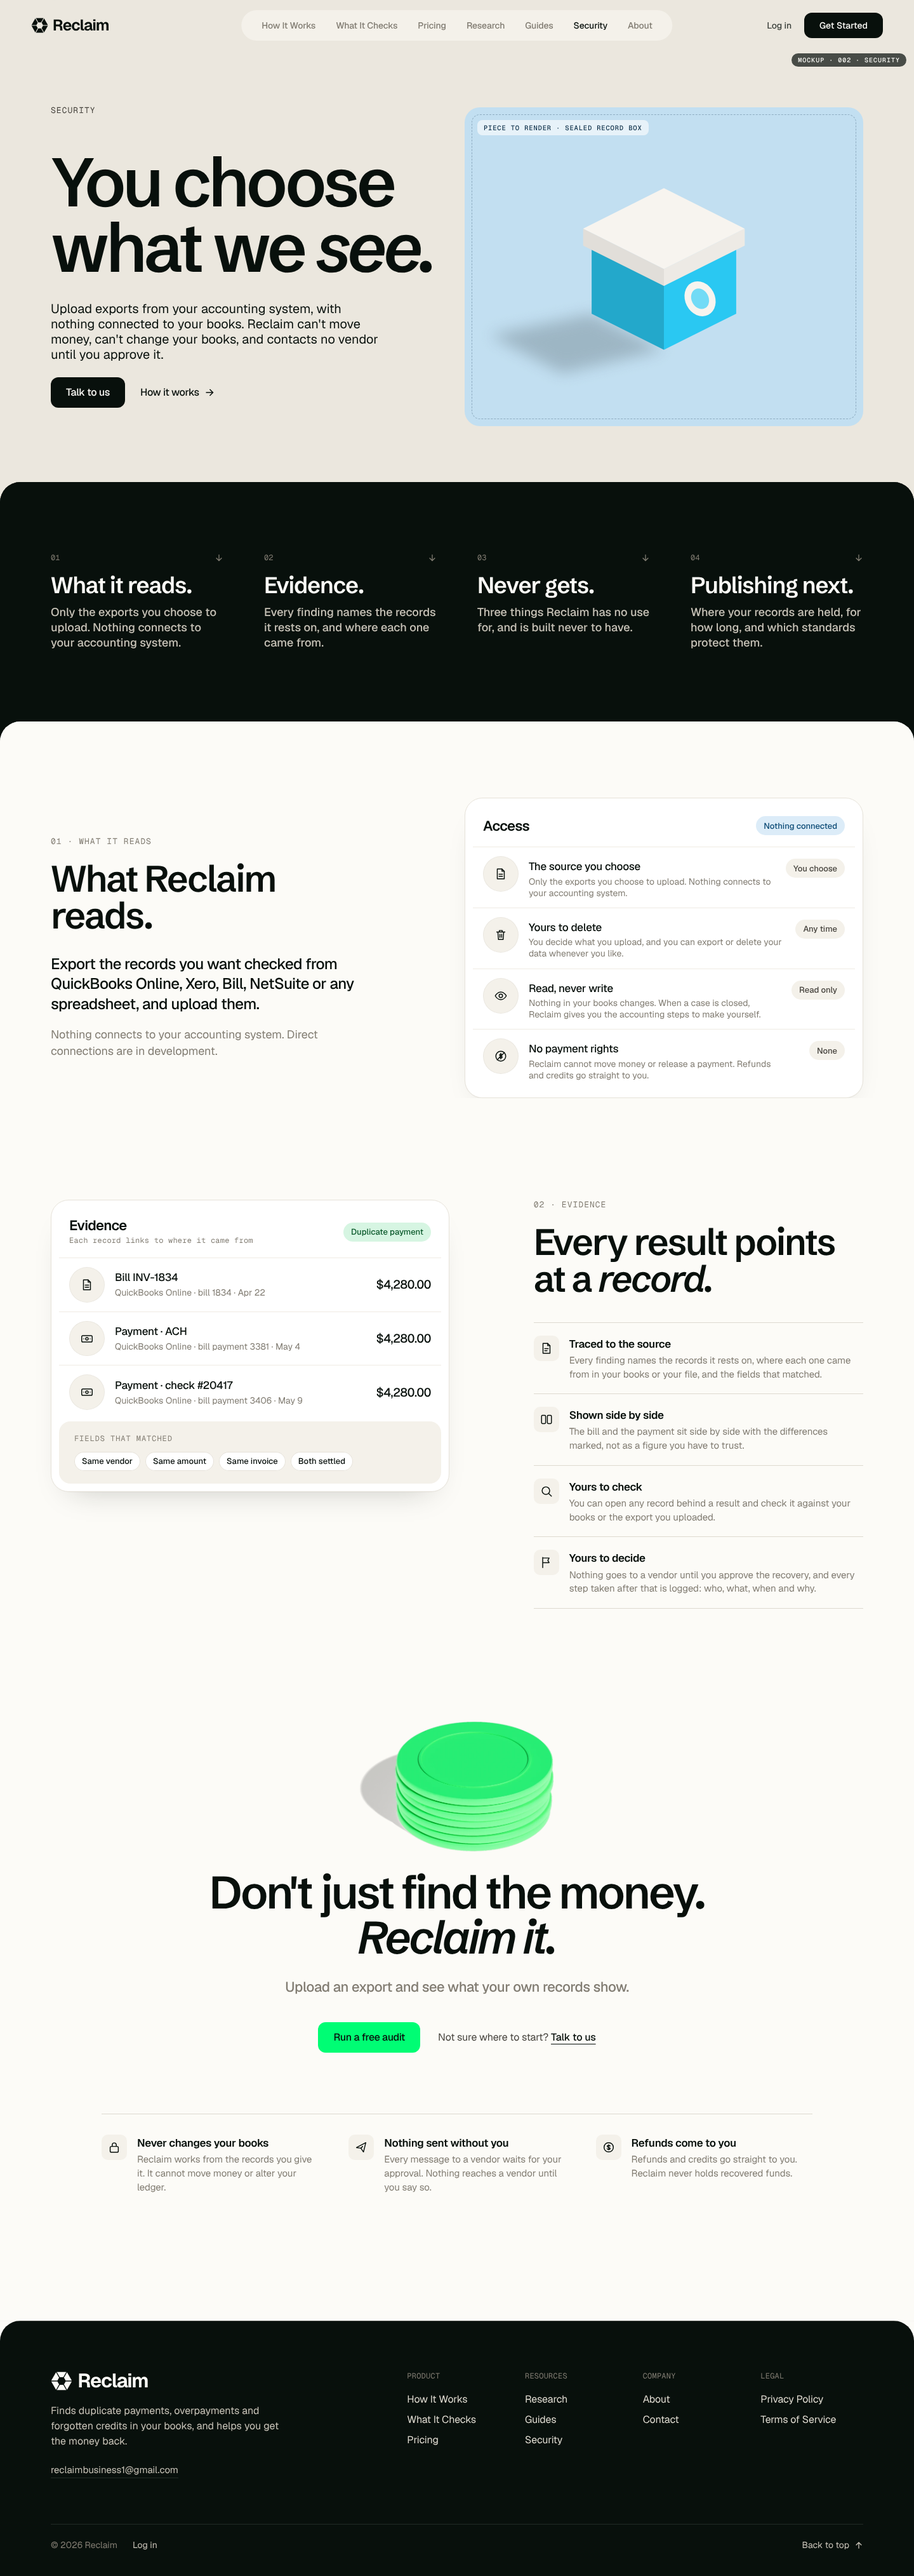
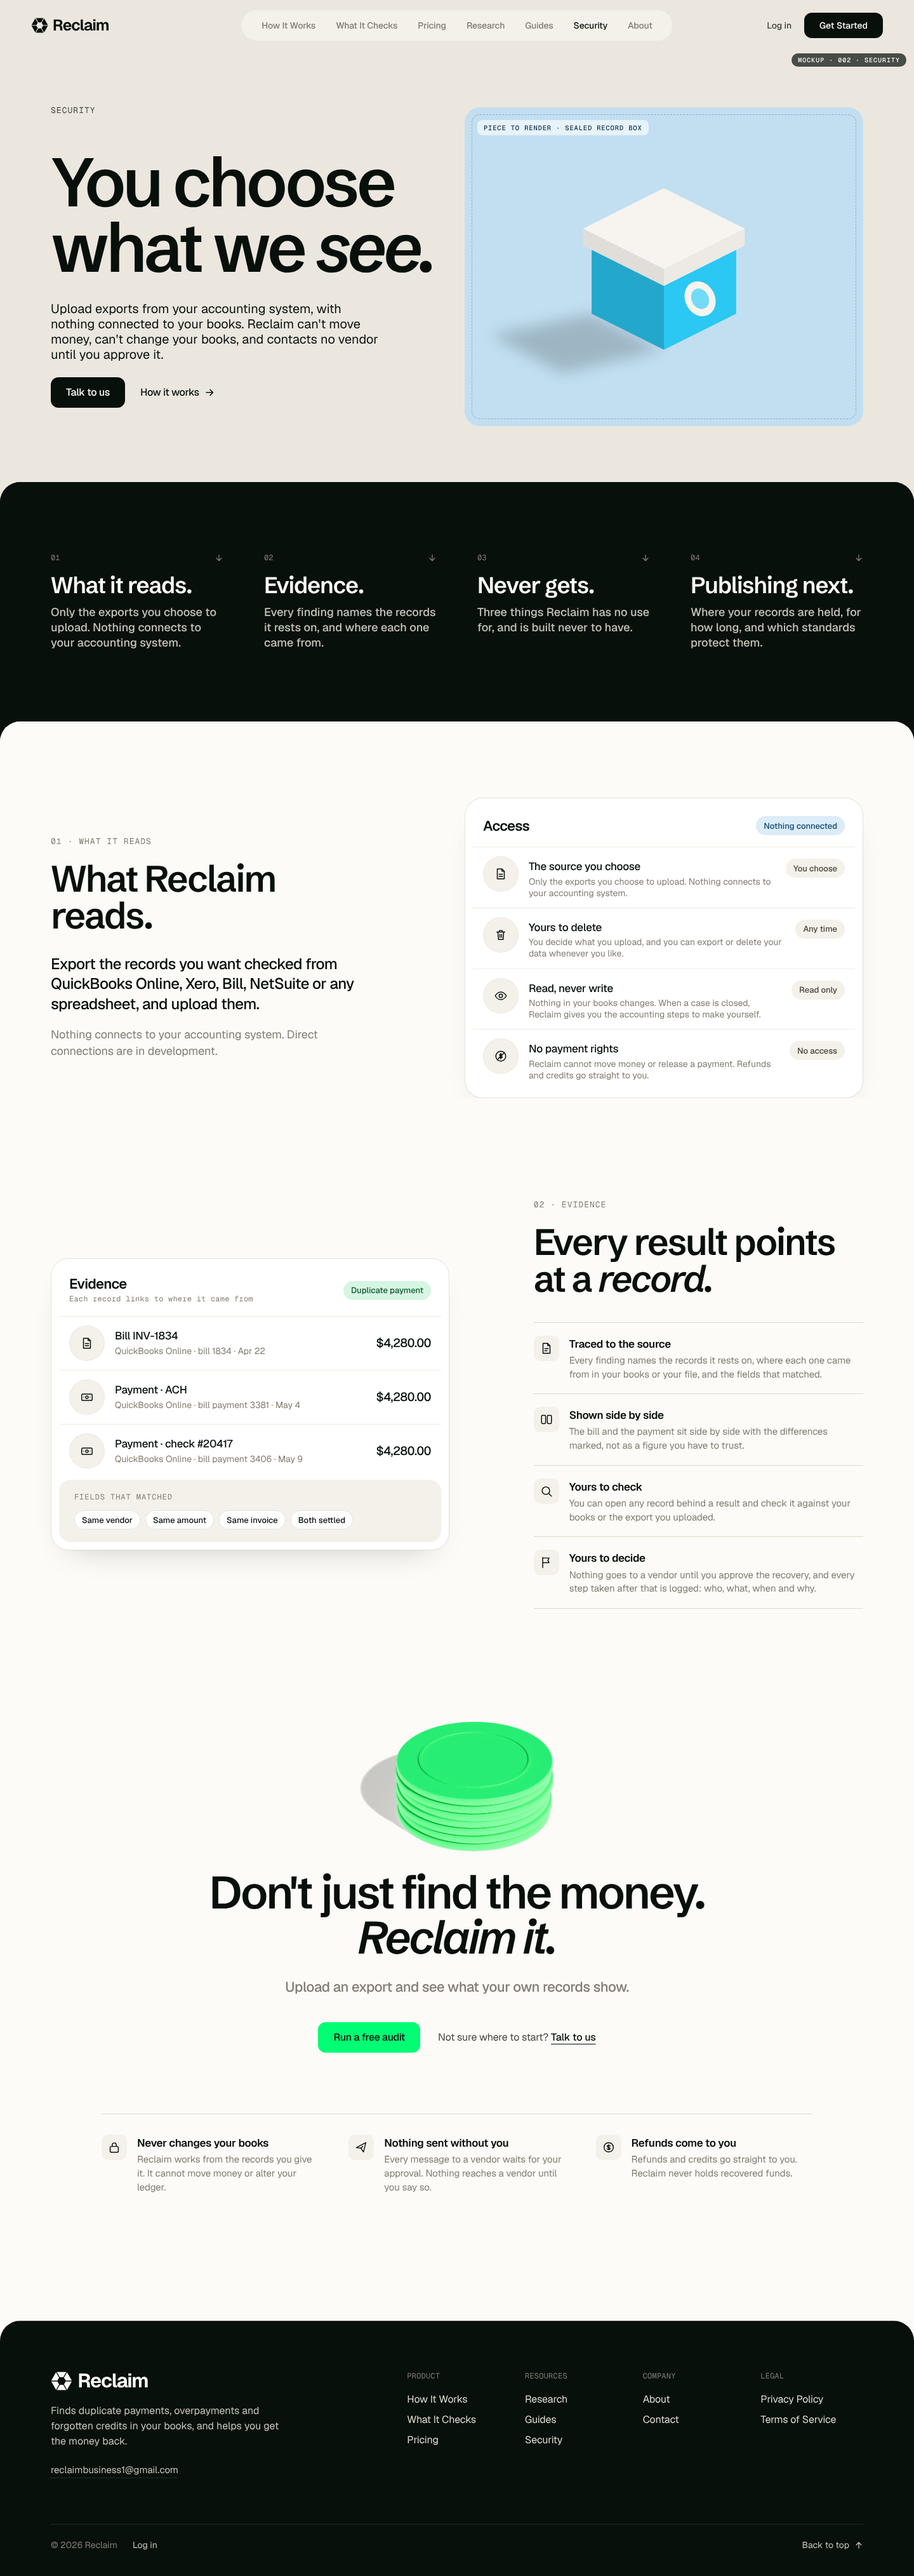
Mockups for plan 002: review pass, in progress
Claude-Session: https://claude.ai/code/session_01JAZ7mVRUHc9QcdvfF57GR6

Changed region(s): [[0.0625, 0.466, 0.2812, 0.5902], [0.375, 0.466, 0.4688, 0.5592]]

diff --git a/docs/mockups/002-subpages-and-app/about.html b/docs/mockups/002-subpages-and-app/about.html
@@ -17,6 +17,7 @@
 /* hero: the lead-in sits above the fact, quieter, same face */
 .about-hero .about-pre { position: relative; z-index: 1; grid-column: 1 / span 7; margin-bottom: 2rem; color: var(--cl-grey-500); }
 .about-hero .kit-hero-eyebrow { margin-bottom: 2.4rem; }
+.about-hero .heading { grid-column: 1 / span 8; font-size: 9.2rem; }   /* a longer sentence than the landing's: a step down, so it keeps its three lines */
 
 /* ink: the statement, then the three tiles the paragraph names */
 .about-statement .header .desc { max-width: calc(var(--grid-column-width) * 7 + var(--grid-column-gap) * 6); color: color-mix(in srgb, var(--cl-white) 72%, transparent); }
@@ -34,8 +35,8 @@
 /* the AP rates */
 .about-headline { margin-top: 2.4rem; font-size: 3.2rem; font-weight: 500; letter-spacing: -.03em; line-height: 1.25; }
 .about-rates .kit-block-head { grid-column: 1 / span 9; }
-.about-after { display: grid; grid-template-columns: repeat(12, minmax(0, 1fr)); column-gap: var(--grid-column-gap); margin-top: 6.4rem; }
-.about-after p { grid-column: 7 / span 5; color: var(--cl-grey-500); font-size: 1.8rem; line-height: 1.45; letter-spacing: -.005em; }
+.about-after { max-width: 64rem; margin-top: 6.4rem; }
+.about-after p { color: var(--cl-grey-500); font-size: 1.8rem; line-height: 1.45; letter-spacing: -.005em; }
 .about-after .about-after-last { margin-top: 1.6rem; color: var(--cl-black); font-weight: 500; }
 
 /* the quote: one sentence large, the rest under it in body size */
@@ -46,6 +47,11 @@
 
 @media (max-width: 1023px) {
   .about-hero .about-pre { grid-column: 1 / -1; margin-bottom: 1.2rem; font-size: 2.2rem; }
+  .about-hero .heading { grid-column: 1 / -1; font-size: 5rem; }
+  .about-hero .heading br, .about-statement .heading br { display: none; }   /* phones: let the sentence flow, no orphans */
+  .kit-tiles.is-3.about-tiles { grid-template-columns: 1fr; gap: .8rem; }
+  .kit-tiles.about-tiles .fd-tile > img { aspect-ratio: 16 / 9; }
+  .kit-tiles.about-tiles .fd-tile { border-radius: 1.8rem; }
   .about-tiles { margin-top: .8rem; }
   .about-beliefs { padding-block: 6.4rem 0; }
   .content-columns .columns.about-cols { display: grid; grid-template-columns: 1fr; gap: 3.2rem; grid-column: 1 / -1; }
@@ -53,7 +59,7 @@
   .about-cols-head { margin-bottom: .8rem; }
   .about-cols-desc { font-size: 1.6rem; margin-top: 1.6rem; }
   .about-headline { font-size: 2.2rem; }
-  .about-after { display: block; margin-top: 4rem; }
+  .about-after { margin-top: 4rem; }
   .about-after p { font-size: 1.6rem; }
   .about-quote { padding-block: 8rem 2.4rem; }
   .about-quote-body { grid-column: 1 / -1; padding-top: 2.4rem; }
@@ -165,7 +171,7 @@
     <div class="content the-grid">
       <p class="kit-eyebrow kit-hero-eyebrow">About</p>
       <p class="about-pre type-h4">Reclaim was built on one fact:</p>
-      <h1 class="heading heading1 type-h1">Money that leaves<br>by mistake leaves<br>a <em>record.</em></h1>
+      <h1 class="heading heading1 type-h1">Money that leaves <br>by mistake <br>leaves a <em>record.</em></h1>
       <div class="desc">
         <p class="type-body-large">Why Reclaim exists, what we believe about accounts payable, and the published research behind it. Every figure on this page links to the organization that published it.</p>
         <div class="hero-ctas">
@@ -187,7 +193,7 @@
         <div class="the-grid">
           <div class="header" theme="black" style="grid-column-end:span 8">
             <p class="kit-eyebrow">Who we are</p>
-            <h2 class="heading type-h2">We build one thing<br>and build it <em>properly.</em></h2>
+            <h2 class="heading type-h2">We build one thing <br>and build it <em>properly.</em></h2>
             <div class="desc type-body-large">
               <p>Reclaim reads the records your accounting system already holds — bills, payments, vendors, credits — and shows where the same invoice went out twice, where a payment came to more than the bill, and where a credit was issued and never used. Then, with your approval, it asks the vendor for the money back and follows the case until it has actually arrived.</p>
             </div>

diff --git a/docs/mockups/002-subpages-and-app/security.html b/docs/mockups/002-subpages-and-app/security.html
@@ -32,16 +32,17 @@
 .sec-points h3 { margin-top: .2rem; font-size: 1.7rem; font-weight: 600; letter-spacing: -.02em; line-height: 1.3; }
 .sec-points p { grid-column: 2; margin-top: .4rem; color: var(--cl-grey-500); font-size: 1.5rem; line-height: 1.45; letter-spacing: -.005em; }
 .sec-points .closing-ico { grid-row: span 2; }
-#evidence .kit-step-row { align-items: start; }
-#evidence .kit-step-fig { position: sticky; top: 12rem; }
+#reads, #evidence { clip-path: none; }   /* let the cards' soft shadows fall past the section edge */
 @media (max-width: 1023px) {
   .sec-card .ex-sum-row { grid-template-columns: 4.4rem minmax(0, 1fr); }
   .sec-card .ex-sum-what { padding-top: .2rem; }
-  .sec-evidence .ex-sum-row { grid-template-columns: 4.4rem minmax(0, 1fr) auto; }
+  .sec-evidence .ex-sum-row { grid-template-columns: 4.4rem minmax(0, 1fr) auto; align-items: start; }
+  .sec-evidence .ex-sum-sub { white-space: normal; }
+  .sec-evidence .ex-sum-amt { padding-top: .2rem; font-size: 1.5rem; }
+  .sec-evidence .ex-sum-head { flex-direction: column; align-items: flex-start; gap: 1.2rem; }
   .sec-matches { padding: 1.6rem; }
   .ex-sum-head .kit-chip { height: 2.6rem; padding: 0 1rem; font-size: 1.2rem; }
   .sec-points { margin-top: 3.2rem; }
-  #evidence .kit-step-fig { position: static; }
 }
 </style>
 </head>
@@ -213,7 +214,7 @@
                 <li class="ex-sum-row" data-hue="grey"><span class="ex-sum-ico is-line" aria-hidden="true"><svg viewBox="0 0 24 24"><path d="M6 3.5h8l4 4v13H6z"/><path d="M14 3.5v4h4M9 12.5h6M9 16h6"/></svg></span><span class="ex-sum-what"><span class="ex-sum-kind">The source you choose</span><span class="ex-sum-sub">Only the exports you choose to upload. Nothing connects to your accounting system.</span></span><span class="ex-sum-state">You choose</span></li>
                 <li class="ex-sum-row" data-hue="grey"><span class="ex-sum-ico is-line" aria-hidden="true"><svg viewBox="0 0 24 24"><path d="M5 7h14M9.5 7V4.5h5V7M7 7l1 13h8l1-13"/><path d="M10.5 11v5.5M13.5 11v5.5"/></svg></span><span class="ex-sum-what"><span class="ex-sum-kind">Yours to delete</span><span class="ex-sum-sub">You decide what you upload, and you can export or delete your data whenever you like.</span></span><span class="ex-sum-state">Any time</span></li>
                 <li class="ex-sum-row" data-hue="grey"><span class="ex-sum-ico is-line" aria-hidden="true"><svg viewBox="0 0 24 24"><circle cx="12" cy="12" r="3"/><path d="M2.5 12S6 5.5 12 5.5 21.5 12 21.5 12 18 18.5 12 18.5 2.5 12 2.5 12z"/></svg></span><span class="ex-sum-what"><span class="ex-sum-kind">Read, never write</span><span class="ex-sum-sub">Nothing in your books changes. When a case is closed, Reclaim gives you the accounting steps to make yourself.</span></span><span class="ex-sum-state">Read only</span></li>
-                <li class="ex-sum-row" data-hue="grey"><span class="ex-sum-ico is-line" aria-hidden="true"><svg viewBox="0 0 24 24"><circle cx="12" cy="12" r="8.5"/><path d="M14.3 9.6c-.5-.7-1.3-1-2.3-1-1.3 0-2.1.6-2.1 1.5 0 2.1 4.5 1.1 4.5 3.2 0 1-.9 1.6-2.2 1.6-1.1 0-2-.4-2.5-1.1M12 7.2v9.6"/><path d="M5.8 18.2 18.2 5.8"/></svg></span><span class="ex-sum-what"><span class="ex-sum-kind">No payment rights</span><span class="ex-sum-sub">Reclaim cannot move money or release a payment. Refunds and credits go straight to you.</span></span><span class="ex-sum-state">None</span></li>
+                <li class="ex-sum-row" data-hue="grey"><span class="ex-sum-ico is-line" aria-hidden="true"><svg viewBox="0 0 24 24"><circle cx="12" cy="12" r="8.5"/><path d="M14.3 9.6c-.5-.7-1.3-1-2.3-1-1.3 0-2.1.6-2.1 1.5 0 2.1 4.5 1.1 4.5 3.2 0 1-.9 1.6-2.2 1.6-1.1 0-2-.4-2.5-1.1M12 7.2v9.6"/><path d="M5.8 18.2 18.2 5.8"/></svg></span><span class="ex-sum-what"><span class="ex-sum-kind">No payment rights</span><span class="ex-sum-sub">Reclaim cannot move money or release a payment. Refunds and credits go straight to you.</span></span><span class="ex-sum-state">No access</span></li>
               </ol>
             </div>
           </div>

diff --git a/docs/mockups/002-subpages-and-app/pricing.html b/docs/mockups/002-subpages-and-app/pricing.html
@@ -53,8 +53,9 @@
   .pp-ledger .pl-fill { transform: none; }
   .pp-ledger .is-us .pl-fill { grid-column: 1 / 4; }                    /* green runs to the counted stage, not past it */
   .pp-ledger .is-us .pl-node:nth-child(8) { border-color: var(--cl-grey-500); }   /* 05 Reconcile: after the money, no green */
-  .pp-ledger .pl-steps li:nth-child(4) strong { color: var(--cl-reclaim); }
-  .pp-ledger .pl-steps li:nth-child(4) { border-top-color: var(--cl-reclaim); }
+  .pp-ledger .pl-steps li:nth-child(4) strong { color: var(--cl-reclaim); }   /* the one stage that is money back */
+  /* the plans' paper ends clear of the ink rising over it */
+  .pp-paper-plans .rs-scale { padding-bottom: calc(var(--rounded-margin) + 14rem); }
 
   @media (max-width: 1023px) {
     .pp-hero.kit-hero { min-height: 0; }
@@ -70,6 +71,7 @@
     .pp-plan .pp-cta { margin-top: 2.4rem; }
     .pp-terms { margin-top: 4rem !important; }
     .pp-pilot { flex-direction: column; align-items: flex-start; gap: 2.4rem; margin-top: 4rem; padding: 2.8rem 2.4rem; }
+    .pp-paper-plans .rs-scale { padding-bottom: calc(var(--rounded-margin) + 6.4rem); }
     .pp-ledger .header { grid-column: 1 / -1; }
     .pp-ledger .pipeline { margin-top: 4.8rem; }
     /* vertical track: green rail up to 04 Recovered (filled), grey after it */
@@ -187,7 +189,7 @@
   </section>
 
   <!-- PAPER — the plans rise straight over the grey hero (no ink here: the plans come first on a pricing page) -->
-  <div class="rounded-section kit-paper" theme="white">
+  <div class="rounded-section kit-paper pp-paper-plans" theme="white">
     <div class="bg bg-top" theme="grey"></div>
     <div class="bg bg-bottom" theme="white"></div>
     <div class="rs-scale" theme="white">

diff --git a/docs/mockups/002-subpages-and-app/what-it-checks.html b/docs/mockups/002-subpages-and-app/what-it-checks.html
@@ -20,8 +20,13 @@
     .wic-cols-5 .heading.type-h4 { font-size: 3.2rem; padding-right: 2.4rem; }
   }
   /* each check: copy + piece, then the examples */
-  .wic-check .kit-step-fig .fd-tile > img { aspect-ratio: 5 / 4; object-fit: cover; }
-  .wic-check .kit-step-fig .kit-ph-obj { aspect-ratio: 5 / 4; }
+  /* 4:3 keeps every piece whole beside the copy (the blue pair spans 74% of its 16:9 frame); positions per still */
+  .wic-check .kit-step-fig .fd-tile > img { aspect-ratio: 4 / 3; object-fit: cover; }
+  .wic-check .kit-step-fig .kit-ph-obj { aspect-ratio: 4 / 3; }
+  .wic-check .fd-tile[data-ex="echo"] > img { object-position: 36% 50%; }
+  .wic-check .fd-tile[data-ex="shadow"] > img { object-position: 22% 50%; }
+  .wic-check .fd-tile[data-ex="overflow"] > img { object-position: 30% 50%; }
+  .wic-check .fd-tile[data-ex="piece"] > img { object-position: 42% 50%; }
   .wic-check .kit-step-wide { margin-top: 8.8rem; }
   .wic-ex-head { display: flex; justify-content: space-between; gap: 2.4rem; padding-bottom: 1.6rem; color: var(--cl-grey-500); font: 400 1.2rem/1.3 var(--f-mono); letter-spacing: .08em; text-transform: uppercase; }
   .wic-ex .kit-ruled > li { padding-block: 2.4rem; }
